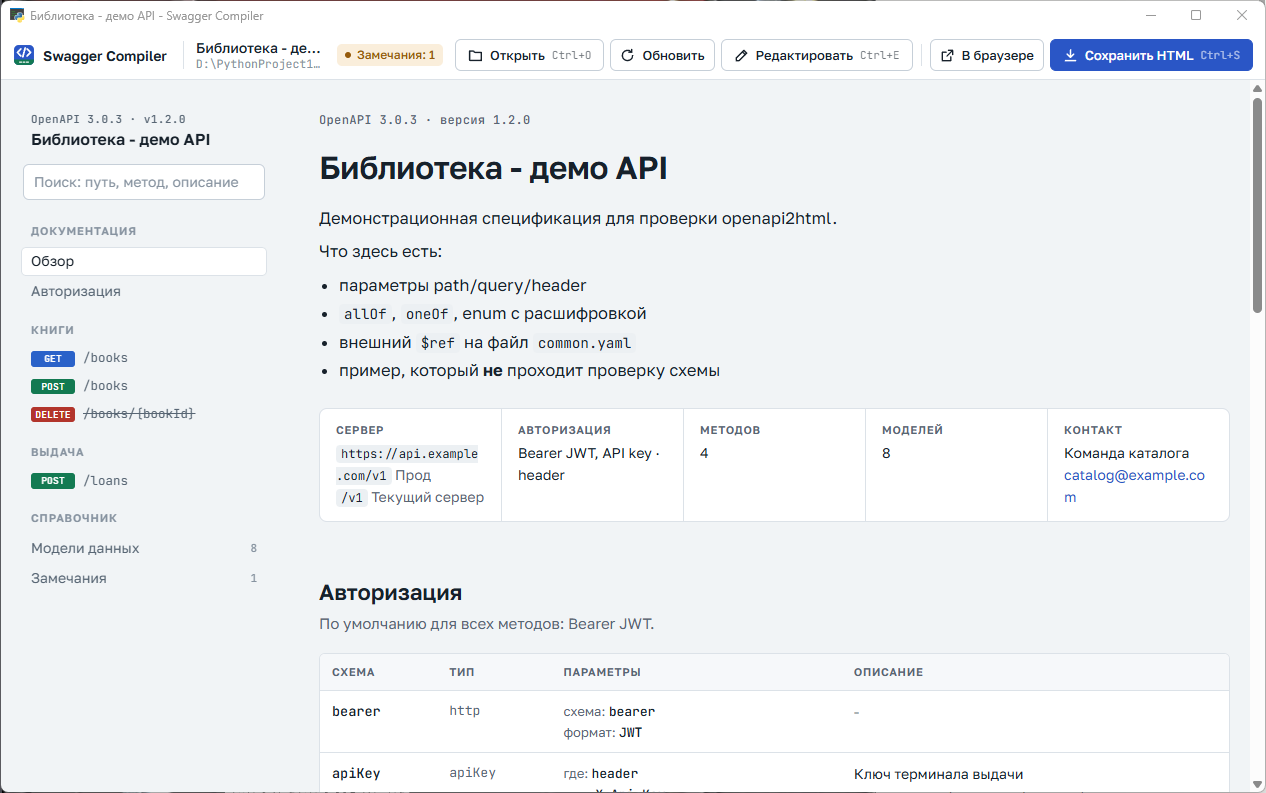
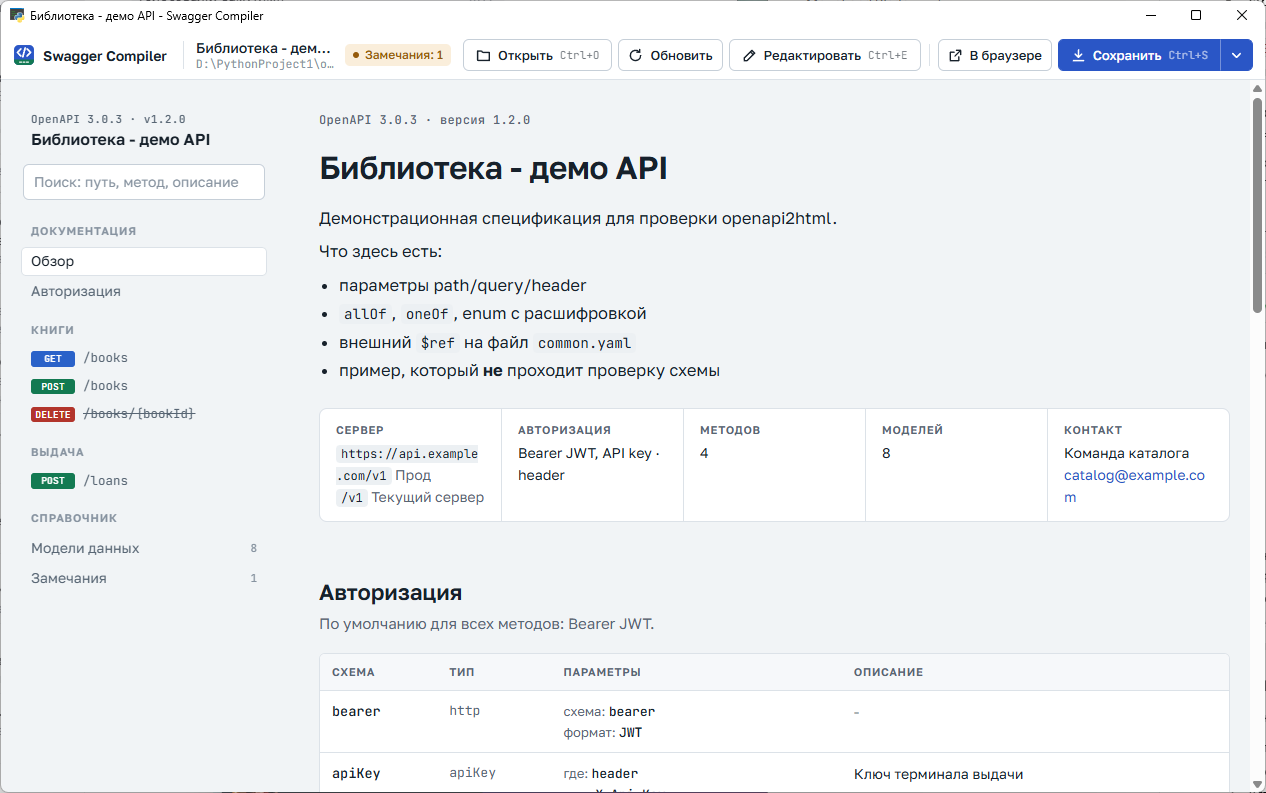
Скриншоты с меню сохранения в README
- обновлены скриншоты окна: новая панель с меню «Сохранить»
- снимок меню сохранения в README.md и README.en.md

diff --git a/README.en.md b/README.en.md
@@ -61,6 +61,8 @@ The **Сохранить** (Save) button saves the HTML page. The arrow next to 
 | Скопировать код для блока HTML (Copy code for the HTML block) | Yandex Wiki HTML block code in the clipboard |
 | Сохранить код для Вики в файл (Save Wiki code to file) | Yandex Wiki HTML block code in a `.wiki.html` file |
 
+![Save menu](docs/screen-save-menu.png)
+
 ### Publishing to Yandex Wiki
 
 1. Open the specification.

diff --git a/README.md b/README.md
@@ -59,6 +59,8 @@
 | Скопировать код для блока HTML | Код для HTML-блока Yandex Wiki в буфере обмена |
 | Сохранить код для Вики в файл | Код для HTML-блока Yandex Wiki в файле `.wiki.html` |
 
+![Меню сохранения](docs/screen-save-menu.png)
+
 ### Публикация в Yandex Wiki
 
 1. Откройте спецификацию.
